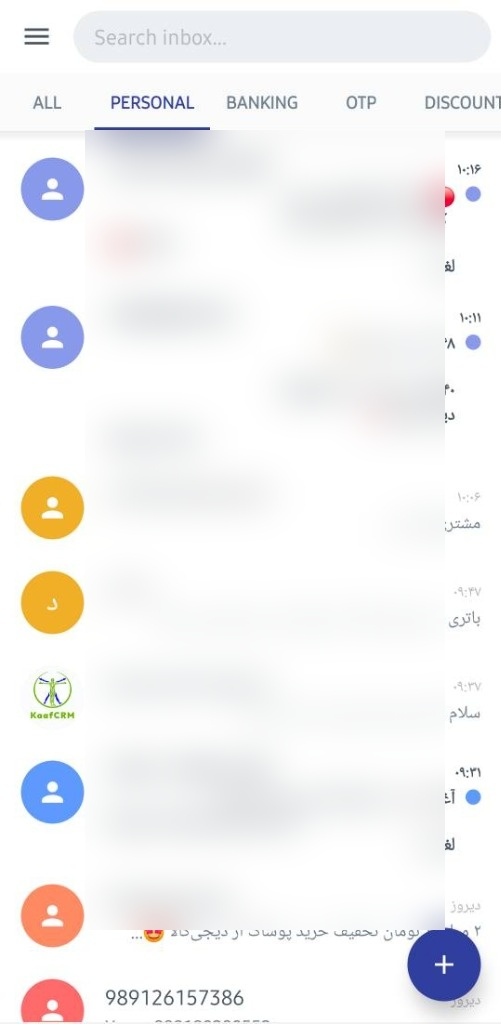
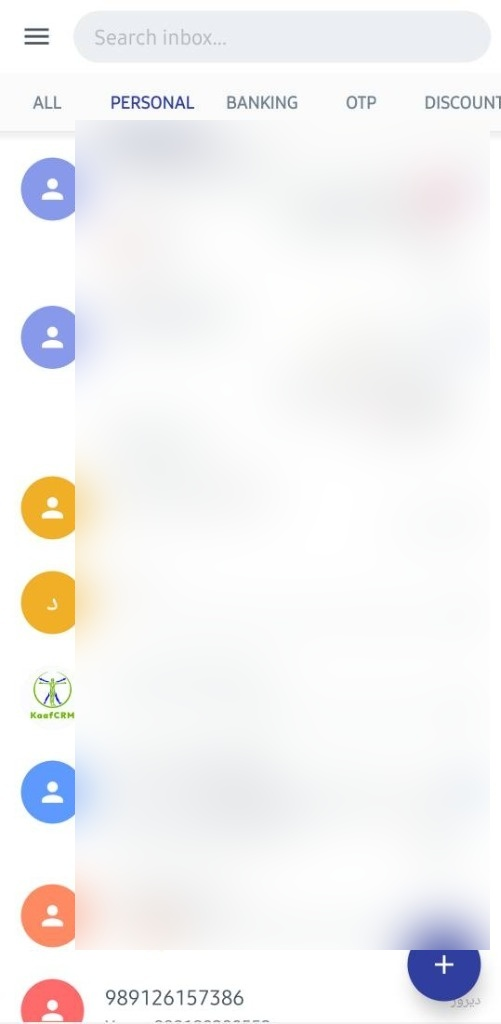
fix: resolve Realm thread issue, package setting, CI build workflow, and blur contact names in app screenshots

diff --git a/data/src/main/java/com/moez/QKSMS/repository/MessageRepositoryImpl.kt b/data/src/main/java/com/moez/QKSMS/repository/MessageRepositoryImpl.kt
@@ -501,7 +501,7 @@ class MessageRepositoryImpl @Inject constructor(
 
         val sentIntents = parts.mapIndexed { index, _ ->
             val intent = Intent(context, SmsSentReceiver::class.java).apply {
-                `package` = context.packageName
+                setPackage(context.packageName)
                 putExtra("id", message.id)
                 putExtra("partIndex", index)
                 action = "com.moez.QKSMS.SMS_SENT_${message.id}_$index"
@@ -514,7 +514,7 @@ class MessageRepositoryImpl @Inject constructor(
         val deliveredIntents = if (deliveryEnabled) {
             parts.mapIndexed { index, _ ->
                 val intent = Intent(context, SmsDeliveredReceiver::class.java).apply {
-                    `package` = context.packageName
+                    setPackage(context.packageName)
                     putExtra("id", message.id)
                     putExtra("partIndex", index)
                     action = "com.moez.QKSMS.SMS_DELIVERED_${message.id}_$index"
@@ -555,11 +555,12 @@ class MessageRepositoryImpl @Inject constructor(
             Handler(Looper.getMainLooper()).postDelayed({
                 try {
                     Realm.getDefaultInstance()?.use { realm ->
-                        val m = realm.where(Message::class.java).equalTo("id", messageId).findFirst()
-                        if (m != null && m.isValid && m.boxId == Sms.MESSAGE_TYPE_OUTBOX) {
-                            realm.executeTransaction {
+                        realm.executeTransaction {
+                            val m = realm.where(Message::class.java).equalTo("id", messageId).findFirst()
+                            if (m != null && m.isValid && m.boxId == Sms.MESSAGE_TYPE_OUTBOX) {
                                 m.boxId = Sms.MESSAGE_TYPE_SENT
                             }
+                        }
                             if (messageUri != null) {
                                 val values = ContentValues()
                                 values.put(Sms.TYPE, Sms.MESSAGE_TYPE_SENT)
